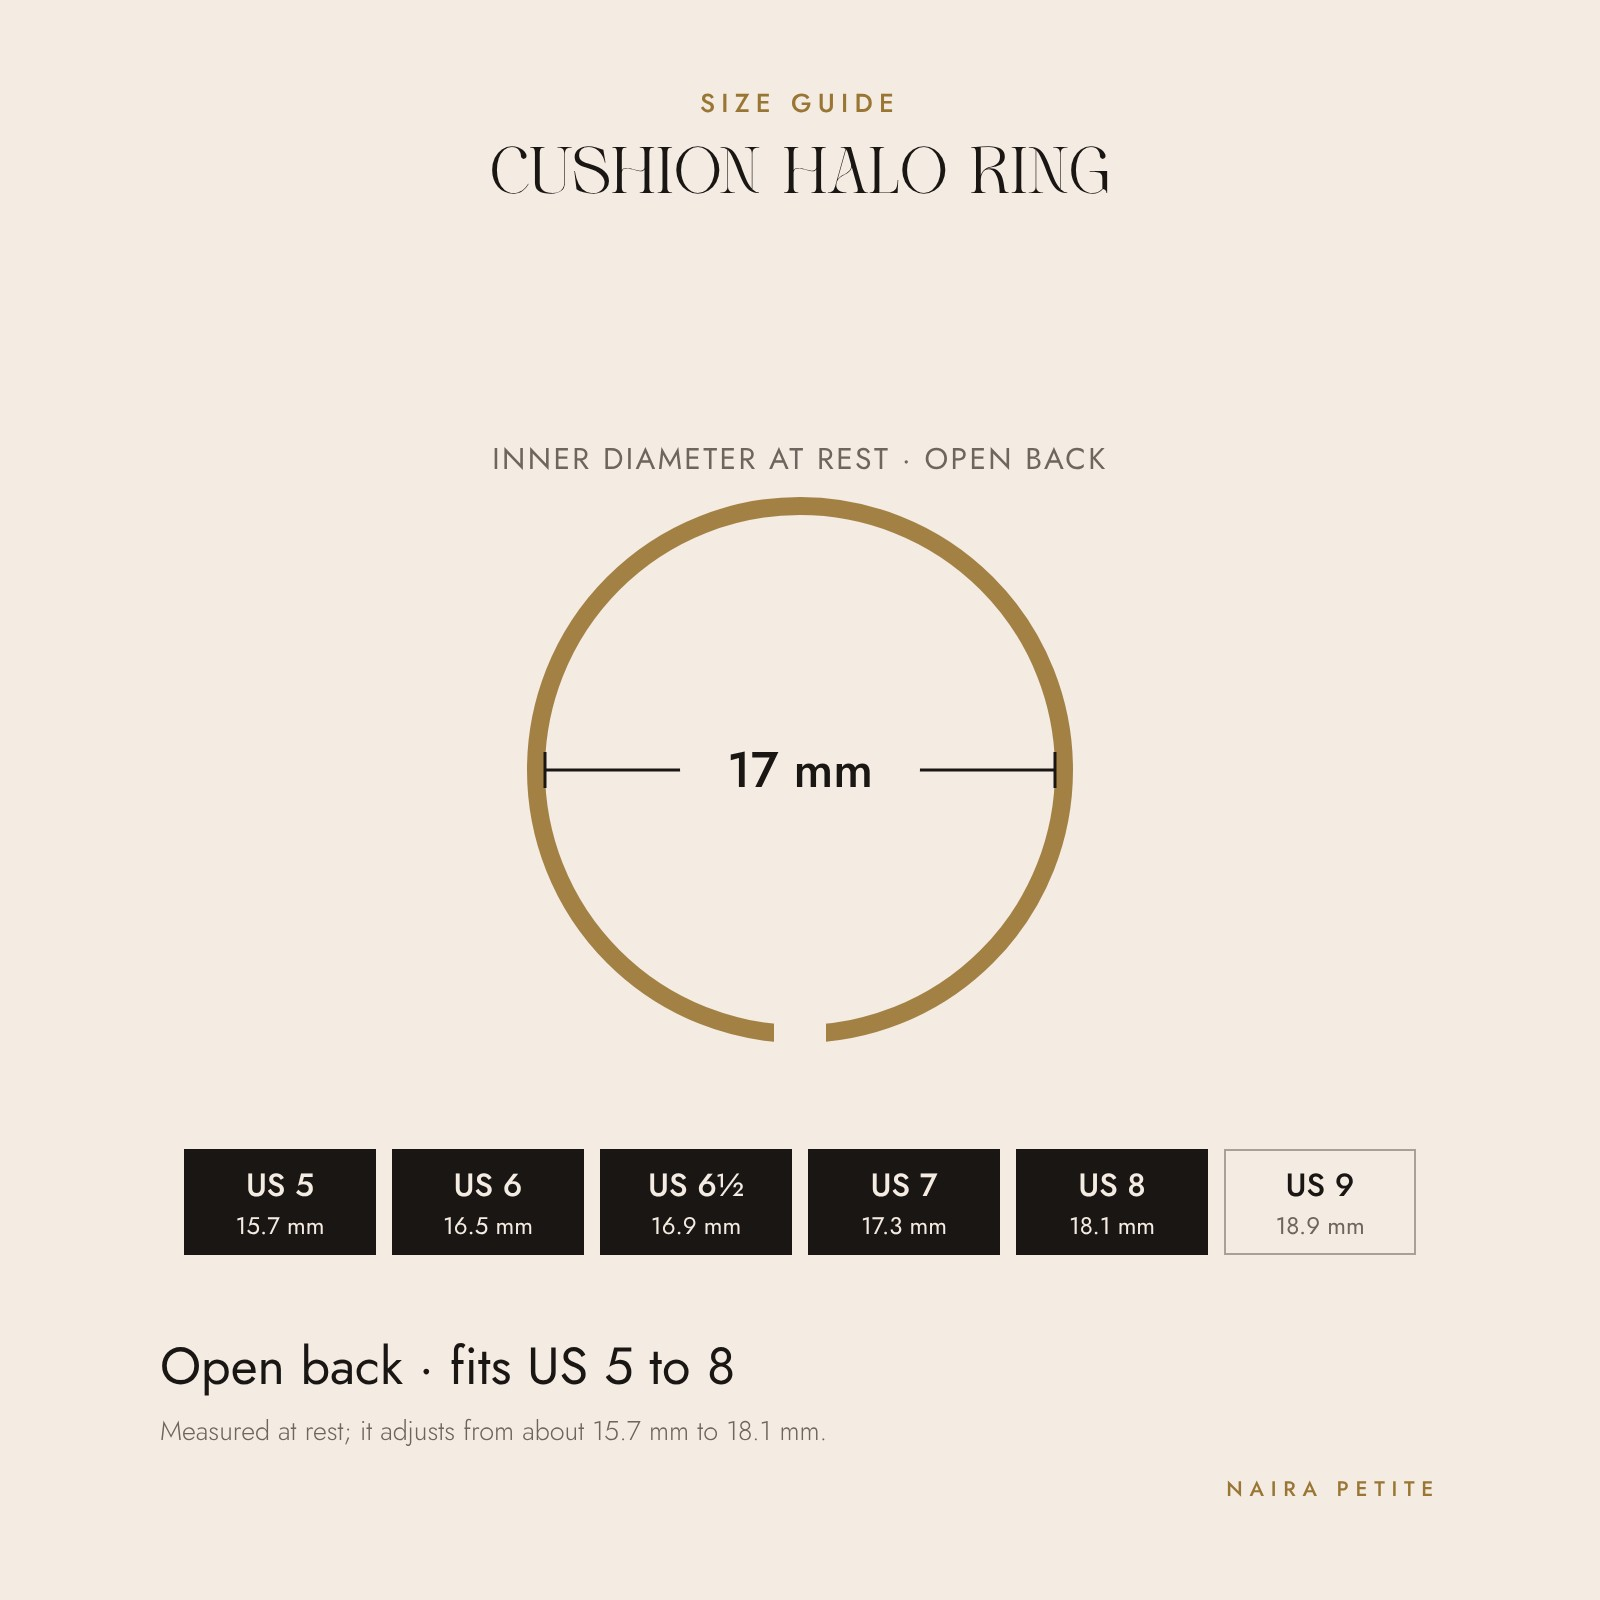
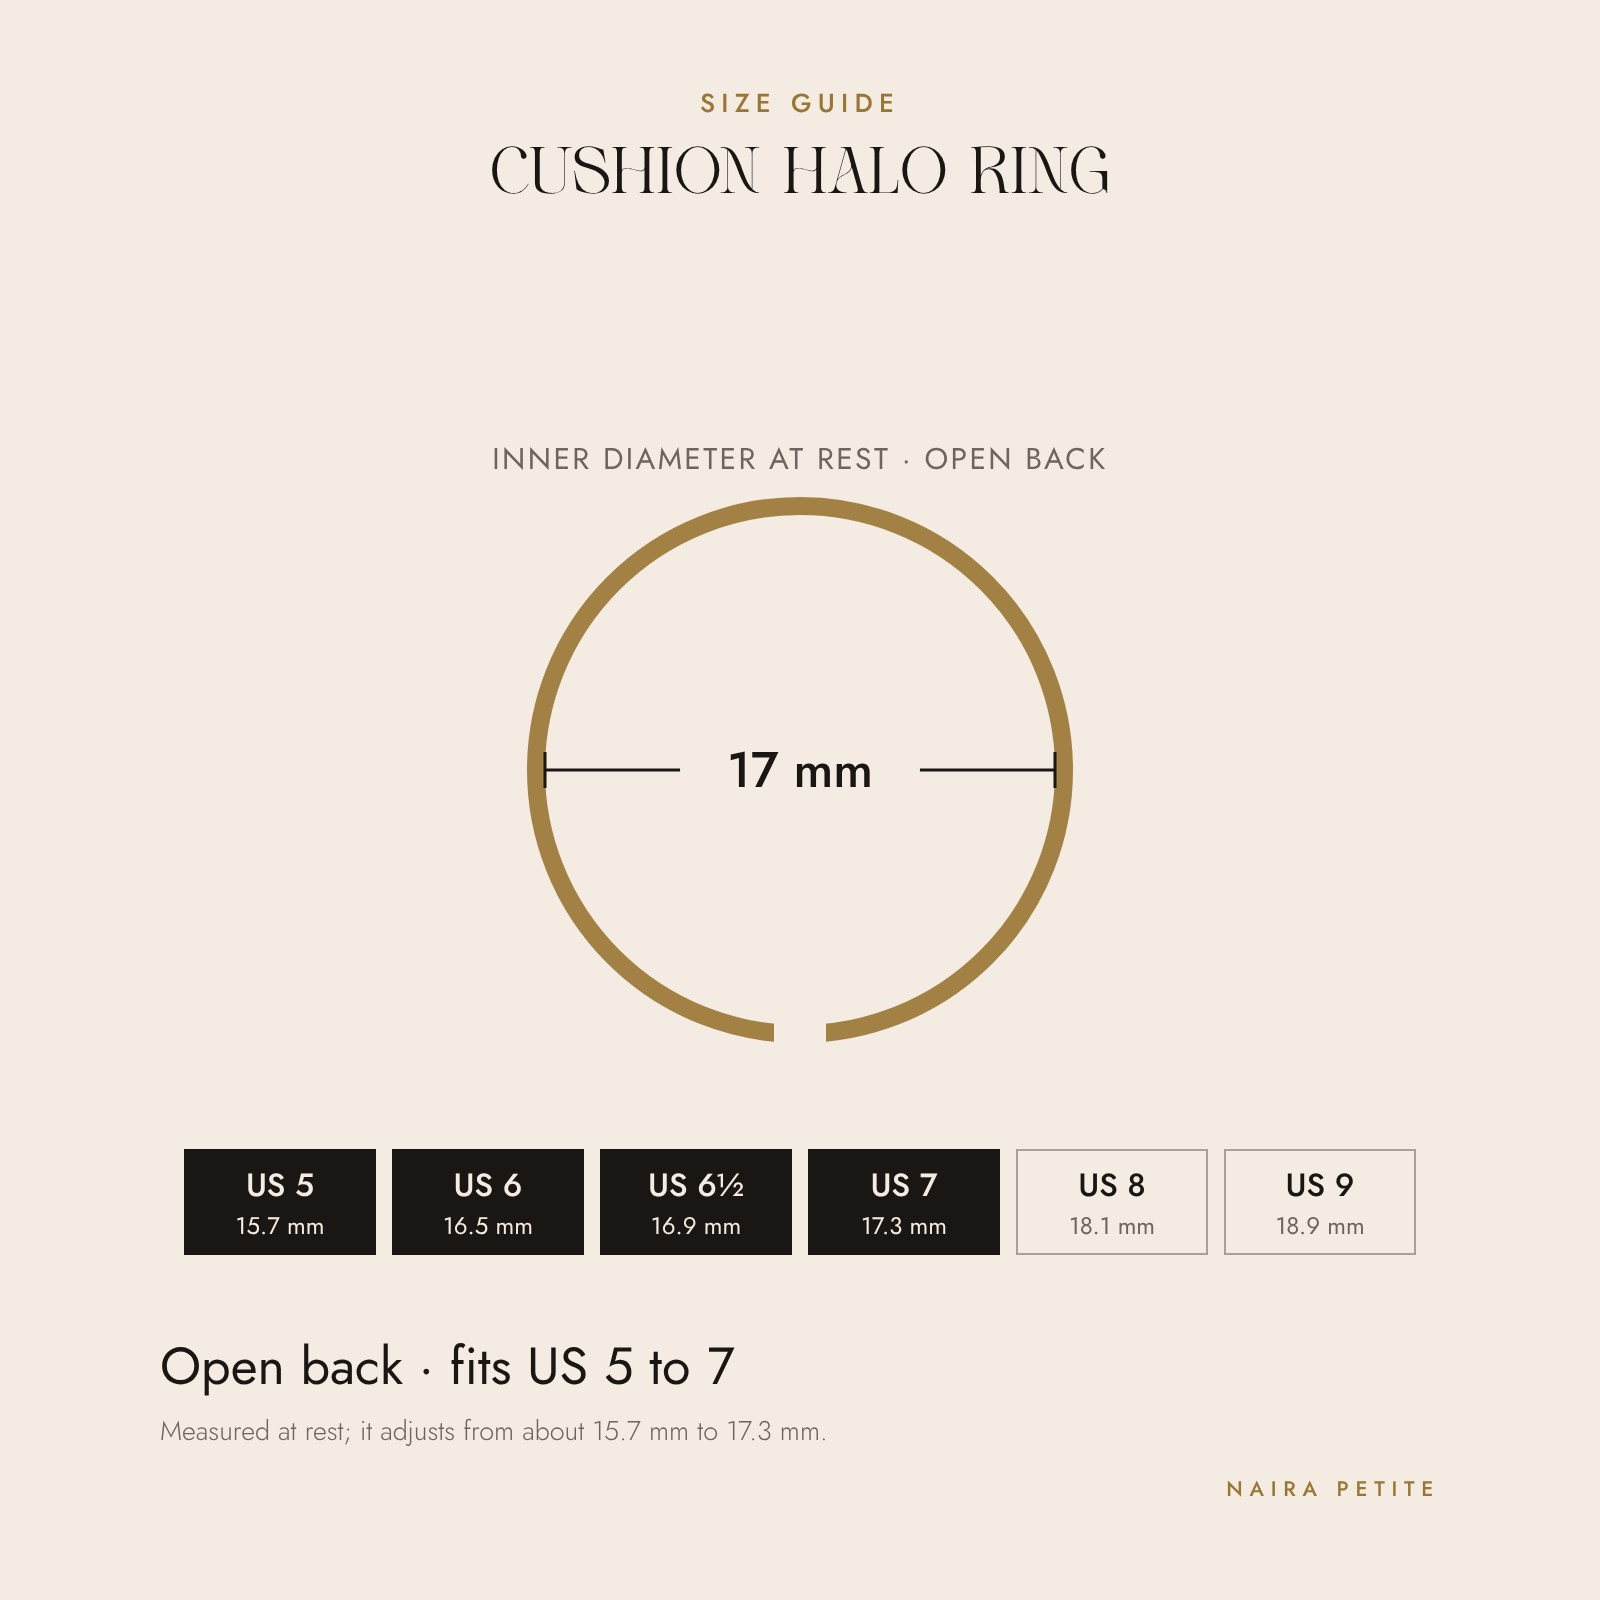
Record Cushion Halo at US 5 to 7 and Blush Cluster as adjustable
Notes on the check of every ring against the supplier's photos, plus the two
new size guides and their renderer.

Claude-Session: https://claude.ai/code/session_01TpEhS3XnffjKP5JTdNrd3V

Changed region(s): [[0.625, 0.7188, 0.7812, 0.7812], [0.4375, 0.8438, 0.4688, 0.875]]

diff --git a/docs/catalogue-fixes.md b/docs/catalogue-fixes.md
@@ -292,3 +292,24 @@ Asked on 23 October; the owner answered:
 - Checked at phone width against live Shopify: Cushion Halo, Halo Curve,
   Star Point, Tubogas, Golden Duet, Roman Numeral and Vintage Halo all show
   the right sizes and lines.
+
+### 24 October, later — which rings really adjust
+
+- **Cushion Halo fits US 5 to 7.** The owner: the new 60 are adjustable,
+  US 5 to 7, not 5 to 8. Its page offers 5, 6 and 7 (main f1eaf4f). Its copy
+  says "adjusts to fit US 5 to 7", and its size guide marks US 5 to 7. Other
+  open-back rings keep US 5 to 8.
+- **Every ring checked against the supplier's photos** (KAVNAR sample and
+  catalogue shots, the Drive folder), not only our own:
+  - **Blush Cluster is open.** KAVNAR's sample (WR10914B2) has a clear gap
+    between the cluster and the small stone, though our copy said "fixed size,
+    between US 6 and 7". It is now adjustable on the site (US 5–8) and in its
+    copy, and its size guide shows an open band.
+  - **Closed bands, still sized:** Vintage Halo, Whisper Pavé, Pearl Ribbon and
+    Chevron Whisper (supplier photos), and the ten rings sold in sizes, except
+    Golden Duet.
+  - **Golden Duet is an open toi-et-moi ring**, but it is sold in US 6, 7 and 8
+    with stock in each. Making it adjustable would merge those sizes into one,
+    so it waits for the owner.
+  - **Lilac Papillon** has no supplier photo, and ours look closed. It waits for
+    the owner.
